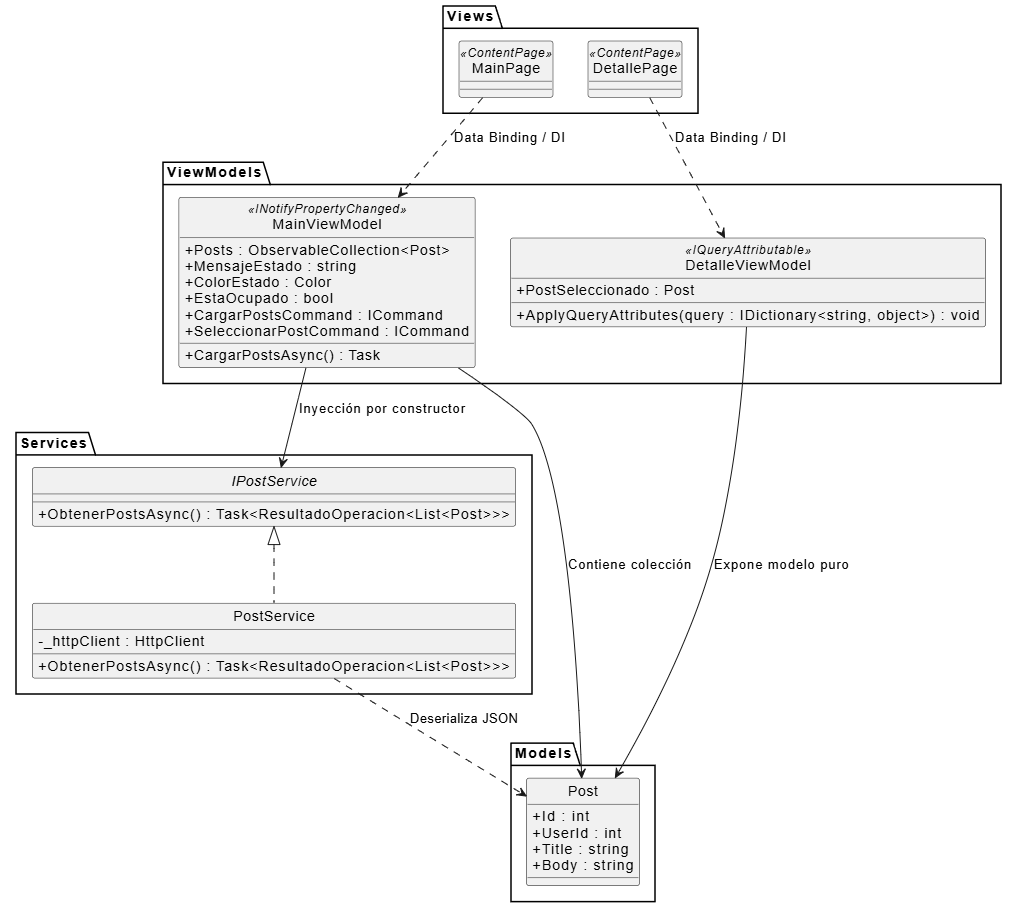
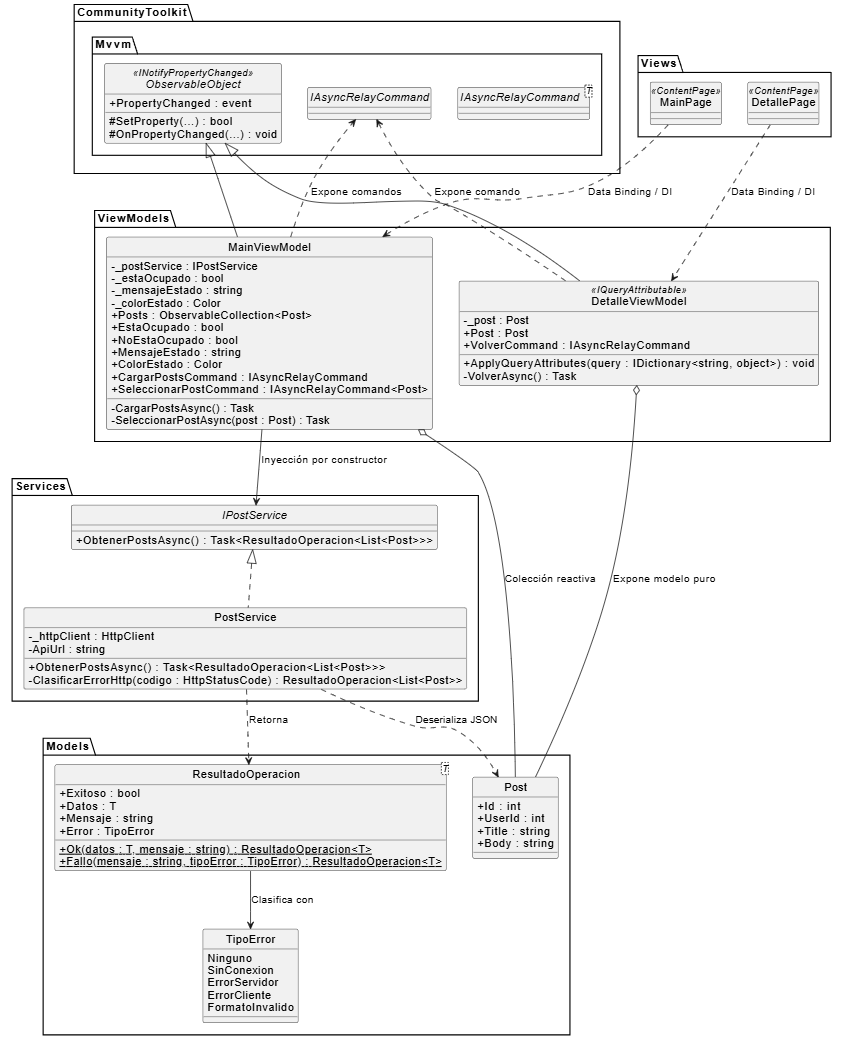
docs: actualizar README y arquitectura explicada con diagramas PlantUML sincronizados al Toolkit

Changed region(s): [[0.0, 0.0, 0.9788, 1.0]]

diff --git a/docs/arquitectura_explicada.md b/docs/arquitectura_explicada.md
@@ -1,40 +1,42 @@
 # ¿Cómo Funciona la Arquitectura de Nuestra App?
 
 
-## Justificación del Desacoplamiento Arquitectónico
+## 1. Justificación del Desacoplamiento Arquitectónico
 
 En aplicaciones móviles basadas en frameworks modernos, la concentración de responsabilidades dentro del archivo de interfaz o su código subyacente (*code-behind*, `.xaml.cs`) conduce a antipatrones de diseño, comúnmente denominados *código espagueti*. Dicha práctica genera un alto acoplamiento entre la interfaz visual, las reglas de negocio y el acceso a datos.
 
 Para garantizar los atributos de calidad de software requeridos (mantenibilidad, escalabilidad y testabilidad), el sistema adopta el principio de **Separación de Responsabilidades (SoC)** mediante la implementación estricta de:
 * El patrón de presentación **MVVM (Model - View - ViewModel)**.
-* El principio de **Inversión de Dependencias (DIP)** articulado a través de un contenedor nativo de **Inyección de Dependencias (DI)**.
+* La adopción de la biblioteca oficial **CommunityToolkit.Mvvm** para la eliminación de código repetitivo (*boilerplate*) mediante generadores de código en tiempo de compilación (*Source Generators*).
+* El principio de **Inversión de Dependencias (DIP)** articulado a través del contenedor nativo de **Inyección de Dependencias (DI)** de .NET MAUI.
 * Servicios dedicados para la integración con la capa de red (APIs REST).
 
+---
 
-## Implementación del Patrón MVVM
+## 2. Implementación del Patrón MVVM y CommunityToolkit.Mvvm
 
 El patrón MVVM estructura la presentación en tres componentes fundamentales con responsabilidades acotadas:
 
 ```
-[ View (XAML) ] <--- Data Binding / ICommand ---> [ ViewModel ] <--- Servicios / DI ---> [ Model ]
+[ View (XAML) ] <--- Data Binding / IAsyncRelayCommand ---> [ ViewModel (ObservableObject) ] <--- Servicios / DI ---> [ Model ]
 ```
 
-### 1. Modelo (`Model`)
+### 2.1 Modelo (`Model`)
 Representa la estructura de las entidades de dominio y datos crudos del sistema. Se mantiene completamente agnóstico a la tecnología visual y a la infraestructura de red.
 * **Componente:** `Post.cs`
-* **Responsabilidad:** Encapsula las propiedades de la entidad recibida desde la API externa (`Id`, `UserId`, `Title`, `Body`) mediante tipos de datos primitivos de C#.
+* **Responsabilidad:** Encapsula las propiedades de la entidad recibida desde la API externa (`Id`, `UserId`, `Title`, `Body`) mediante tipos de datos primitivos de C# y atributos de `System.Text.Json` (`[JsonPropertyName]`).
 
-### 2. Vista (`View`)
+### 2.2 Vista (`View`)
 Define la estructura visual y distribución de los elementos de la interfaz de usuario en lenguaje declarativo XAML.
 * **Componentes:** `MainPage.xaml` y `DetallePage.xaml`.
 * **Criterio de diseño:** Carece por completo de lógica algorítmica y de negocio en su *code-behind*. Su comportamiento está supeditado a los datos provistos por su contexto de enlace (`BindingContext`), resolviendo la interacción del usuario mediante comandos.
 
-### 3. ViewModel (`ViewModel`)
+### 2.3 ViewModel (`ViewModel`)
 Actúa como intermediario de presentación entre la Vista y los servicios de la aplicación.
-* **Componentes:** `MainViewModel.cs` y `DetalleViewModel.cs`.
-* **Responsabilidades:**
-  * **Notificación de Cambios:** Implementa la interfaz `INotifyPropertyChanged` para advertir a la Vista sobre modificaciones en el estado interno (por ejemplo, `EstaOcupado`, `MensajeEstado`, `ColorEstado`).
-  * **Exposición de Comandos:** Publica instancias de `ICommand` (`CargarPostsCommand`, `SeleccionarPostCommand`) que abstraen eventos de usuario sin acoplarse a controles específicos de UI.
+* **Componentes:** `MainViewModel.cs` y `DetalleViewModel.cs` (ambos heredando de `ObservableObject`).
+* **Responsabilidades y uso del Toolkit:**
+  * **Notificación de Cambios y Source Generators:** Se utiliza la clase base `ObservableObject` y el atributo `[ObservableProperty]` sobre campos de respaldo privados (`_estaOcupado`, `_mensajeEstado`, `_colorEstado`, `_post`). El compilador genera automáticamente en tiempo de compilación las propiedades públicas con notificación reactiva `PropertyChanged`, reduciendo drásticamente el código repetitivo.
+  * **Comandos Asíncronos Declarativos:** Mediante el atributo `[RelayCommand]`, los métodos asíncronos (`CargarPostsAsync`, `SeleccionarPostAsync`, `VolverAsync`) se exponen a la vista como comandos de tipo `IAsyncRelayCommand`. Esto gestiona la concurrencia, evita ejecuciones concurrentes indebidas y actualiza el estado de habilitación de controles (`CanExecute`).
   * **Orquestación:** Delega la obtención de información a la capa de servicios y formatea el estado contextual antes de entregarlo a la Vista.
 
 
@@ -42,7 +44,7 @@ Actúa como intermediario de presentación entre la Vista y los servicios de la 
 
 Para evitar la duplicación de código y aislar las operaciones de entrada/salida (I/O) de red, la interacción con la API de JSONPlaceholder se encapsula en una capa de servicio autónoma.
 
-### 1. Contrato de Abstracción (`IPostService`)
+### 3.1 Contrato de Abstracción (`IPostService`)
 Define el contrato funcional que requiere la aplicación:
 ```csharp
 public interface IPostService
@@ -52,42 +54,43 @@ public interface IPostService
 ```
 El uso de una interfaz permite desacoplar los consumidores (ViewModels) de la implementación tecnológica concreta, facilitando la futura sustitución del proveedor de datos o la incorporación de dobles de prueba (*mocks/fakes*) en entornos de testeo unitario.
 
-### 2. Implementación (`PostService`)
-* Utiliza una instancia compartida de `HttpClient` para evitar el agotamiento de sockets en el sistema operativo.
-* Implementa una estrategia granular de manejo de excepciones asíncronas, diferenciando:
+### 3.2 Implementación (`PostService`)
+* Utiliza una instancia compartida de `HttpClient` inyectada como `Singleton` para evitar el agotamiento de sockets en el sistema operativo.
+* Implementa una estrategia granular de manejo de excepciones asíncronas con bloques `catch` jerárquicos, diferenciando:
   * Errores de conectividad de bajo nivel y tiempo de espera (`HttpRequestException`, `TaskCanceledException`).
-  * Respuestas erróneas del protocolo HTTP (`4xx` para errores de cliente, `5xx` para errores de servidor).
-* Deserializa la carga útil en formato JSON hacia colecciones de objetos C# mediante `System.Text.Json`.
+  * Respuestas erróneas del protocolo HTTP (`4xx` para errores de cliente, `5xx` para errores de servidor) mediante la envoltura `ResultadoOperacion<T>` y la enumeración `TipoError`.
+* Deserializa la carga útil en formato JSON hacia colecciones de objetos C# mediante `System.Text.Json` con opciones de insensibilidad a mayúsculas/minúsculas.
 
 
 
-##  Inversión de Control e Inyección de Dependencias (DI)
+## 4. Inversión de Control e Inyección de Dependencias (DI)
 
 La solución elimina la instanciación directa (`new`) de dependencias de infraestructura dentro de las clases de presentación. En su lugar, el ensamblaje de la aplicación se centraliza en `MauiProgram.cs` mediante el contenedor integrado de .NET MAUI.
 
 ### Política de Ciclos de Vida
-* **`Singleton`:** Aplicado a servicios de red (`IPostService`, `PostService`). Se genera una única instancia durante todo el ciclo de vida de la aplicación, optimizando el consumo de recursos y reutilizando la infraestructura de red.
-* **`Transient`:** Aplicado a los ViewModels (`MainViewModel`, `DetalleViewModel`) y las Páginas (`MainPage`, `DetallePage`). Se garantiza una instancia limpia e independiente en cada solicitud de navegación, evitando que el estado de una sesión o pantalla previa persista de forma indebida.
+* **`Singleton`:** Aplicado al cliente de red y servicio (`HttpClient`, `IPostService` -> `PostService`). Se genera una única instancia durante todo el ciclo de vida de la aplicación, optimizando el consumo de recursos y reutilizando la infraestructura de red.
+* **`Transient`:** Aplicado a los ViewModels (`MainViewModel`, `DetalleViewModel`) y las Páginas (`MainPage`, `DetallePage`). Se garantiza una instancia limpia e independiente en cada solicitud de navegación, evitando que el estado de una sesión previa persista de forma indebida.
 
 
 
-## Mecanismo de Navegación y Paso de Parámetros Complejos
+## 5. Mecanismo de Navegación y Paso de Parámetros Complejos
 
 La navegación entre la vista de listado y la vista de detalle se gestiona mediante el sistema declarativo basado en URI de **.NET MAUI Shell**.
 
 Para resolver la transferencia de datos entre pantallas:
 1. **Evitación de parámetros planos por URI:** Se desestima la descomposición de la entidad en cadenas primitivas individuales (`?id=1&title=texto`) debido a riesgos de truncamiento, incompatibilidad de codificación de caracteres o sobrecosto de re-consulta innecesaria.
-2. **Transferencia por `ShellNavigationQueryParameters`:** Al invocarse la navegación con `Shell.Current.GoToAsync`, se encapsula el objeto completo `Post` dentro de un diccionario transitorio.
-3. **Consumo vía `IQueryAttributable`:** El `DetalleViewModel` implementa el método `ApplyQueryAttributes`, recuperando la referencia directa al objeto deserializado. Este enfoque proporciona tipado seguro, bajo consumo de memoria y eliminación automática de la referencia tras la navegación.
+2. **Transferencia por `ShellNavigationQueryParameters`:** Al invocarse la navegación con `Shell.Current.GoToAsync("DetallePage", parametros)`, se encapsula el objeto completo `Post` dentro de un diccionario transitorio que se limpia de memoria automáticamente tras la navegación.
+3. **Consumo vía `IQueryAttributable`:** `DetalleViewModel` implementa el método `ApplyQueryAttributes(IDictionary<string, object> query)`, recuperando la referencia directa al objeto tipado sin problemas de temporización en constructores.
 
 ---
 
 ## 6. Referencias a Diagramas de Arquitectura
 
 Para un análisis esquemático del sistema, consultar los diagramas modelados en PlantUML en este mismo directorio:
-* **Estructura y Relación de Capas:** [`arquitectura.puml`](./arquitectura.puml)
-    ![Arquitectura](arquitectura.png)
-* **Secuencia de Navegación y Parámetros:** [`navegacion_secuencia.puml`](./navegacion_secuencia.puml)
-    ![Arquitectura](navegacion_secuencia.png)
+* **Estructura y Relación de Capas:** [`arquitectura.puml`](./arquitectura.puml)  
+  ![Arquitectura](arquitectura.png)
+
+* **Secuencia de Navegación y Parámetros:** [`navegacion_secuencia.puml`](./navegacion_secuencia.puml)  
+  ![Secuencia de Navegación](navegacion_secuencia.png)
 
 * **Instrucciones de compilación y visualización:** [`plantUML.md`](./plantUML.md)

diff --git a/README.md b/README.md
@@ -7,7 +7,7 @@
 **Docente:** Nicolás Ferreira  
 
 **Estudiantes:** 
-* Sol Ailen Kalapuj - 15406
+* Sol Ailen Kalapuj - 154106
 * Fiorella Mosca - 154108  
 
 
@@ -17,12 +17,12 @@
 
 **DevPosts Reader** es una aplicación móvil desarrollada en **.NET MAUI** orientada a la consulta y lectura de artículos y publicaciones técnicas. Consume la API REST pública de **JSONPlaceholder** (`https://jsonplaceholder.typicode.com/posts`).
 
-La solución fue estructurada siguiendo las mejores práctica:
-* **Patrón MVVM estricto:** Separación total entre la interfaz de usuario en XAML y la lógica de presentación.
-* **Inyección de Dependencias (DI):** Registro centralizado y resolución automática de dependencias en `MauiProgram.cs`.
-* **Manejo Granular de Estados y Errores:** Clasificación en tiempo real de errores de red (conectividad/timeout) vs. errores de servidor HTTP (4xx / 5xx), reflejados contextualmente con colores y mensajes claros en la UI.
-* **Navegación Shell con Objetos Complejos:** Transferencia del modelo de datos completo mediante `ShellNavigationQueryParameters`.
-
+La solución fue estructurada siguiendo las mejores prácticas:
+* **Arquitectura MVVM Estricta:** Separación formal entre Vistas declarativas (XAML), ViewModels reactivos (`BaseViewModel` con `INotifyPropertyChanged`) y Modelos de dominio puros (`Post`).
+* **Consumo Asíncrono de API REST:** Implementación de `HttpClient` en un servicio desacoplado (`PostService`) bajo el contrato `IPostService`.
+* **Manejo Granular y Contextual de Errores:** Clasificación de fallos mediante el contenedor `ResultadoOperacion<T>`, distinguiendo errores de red/timeout (`HttpRequestException`, `TaskCanceledException`) de fallos HTTP (4xx / 5xx), reflejados con código de colores en la interfaz.
+* **Navegación Shell con Objetos Complejos:** Transferencia de entidades completas mediante `ShellNavigationQueryParameters` y consumo en destino con `IQueryAttributable`, eliminando la pérdida de datos o fragmentación por URI.
+* **Inyección de Dependencias (DI):** Registro centralizado en `MauiProgram.cs` aplicando `Singleton` para servicios y `Transient` para presentación.
 
 
 ##  Documentación del Proyecto
@@ -32,3 +32,20 @@ Toda la documentación técnica y explicativa se encuentra organizada en la carp
 *  **[Explicación de la Arquitectura paso a paso](docs/arquitectura_explicada.md):** En este documento detalla los fundamentos teóricos, patrones de diseño y decisiones de arquitectura implementadas en la solución móvil **DevPosts Reader**, desarrollada sobre la plataforma **.NET MAUI**.
 
 *  **[Guía de Visualización de PlantUML](docs/plantUML.md):** Instrucciones detalladas para abrir, previsualizar y compilar los diagramas `.puml`.
+
+
+---
+
+## 🚀 Compilación y Ejecución
+
+### Requisitos Previos
+* .NET 10.0 SDK (o superior) con la carga de trabajo de MAUI instalada.
+* Visual Studio 2022 con el componente de desarrollo móvil .NET MAUI.
+
+### Comandos de Compilación
+Para compilar y verificar el proyecto desde terminal:
+
+```bash
+# Restauración y compilación en Windows
+dotnet build -f net10.0-windows10.0.19041.0
+```
